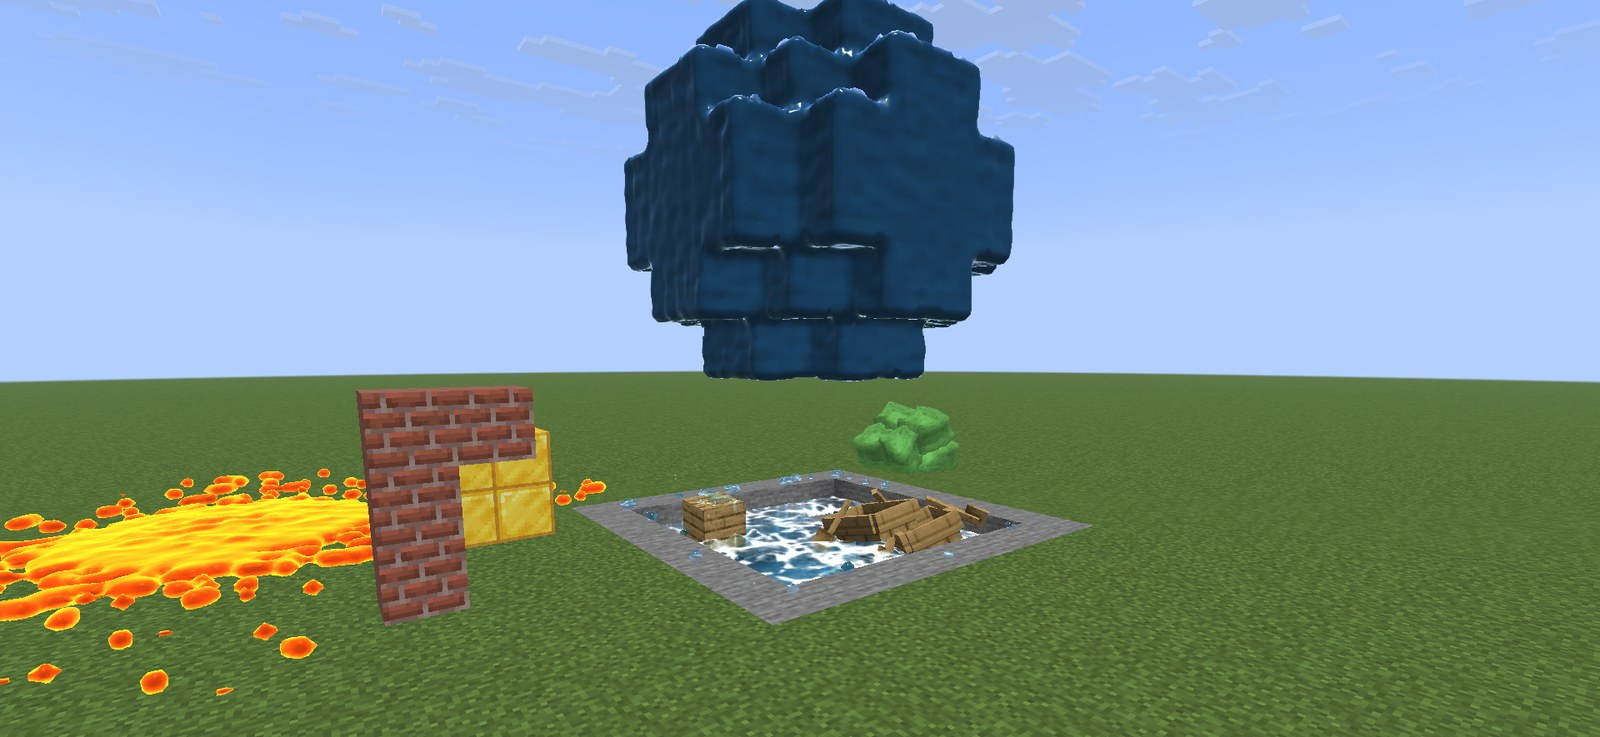
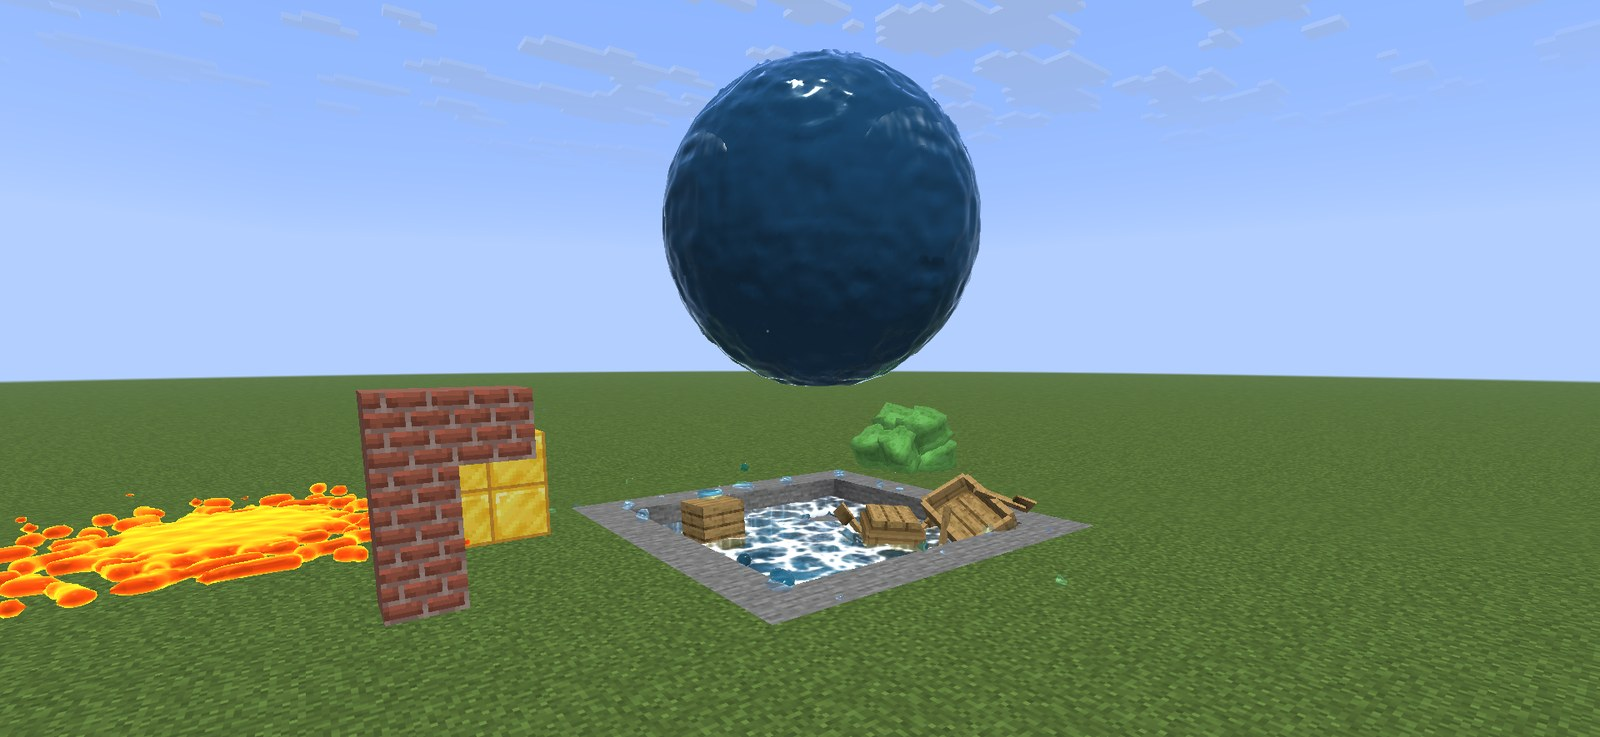
3.1.1: round water and lava balls
/inertia ball and /inertia lava spawned whole blocks of water, so the
ball looked like a pile of cubes. FluidSimulation.spawnBall adds the
lattice particles within the radius (skipping cells with collision),
queued by FluidManager.releaseBall for the next step like other spawns.
The commands screenshot shows the round ball.

diff --git a/src/client/java/io/github/isnowx17/inertia/client/fluid/FluidSimulation.java b/src/client/java/io/github/isnowx17/inertia/client/fluid/FluidSimulation.java
@@ -647,6 +647,103 @@ public final class FluidSimulation implements AutoCloseable {
 	}
 
 	/**
+	 * Adds a ball of water (or lava) at rest: the particles of the block lattice within {@code radius}
+	 * of {@code center}, so it is round from the start; none inside the ground.
+	 *
+	 * @return number of particles added (fewer near the limit or with ground in the ball)
+	 */
+	public int spawnBall(net.minecraft.world.level.Level level, Vec3 center, double radius, int maxParticles) {
+		awaitStep();
+		if ((activeCount == 0 && frozenEmpty() && rigids.isEmpty()) || !originSet) {
+			rebase(BlockPos.containing(center));
+		}
+		float spacing = params.spacing();
+		// The lattice of whole blocks (as spawnBlock), so particles start at the water's rest spacing.
+		int lo = (int) Math.floor((-radius) / spacing);
+		int hi = (int) Math.ceil(radius / spacing);
+		double r2 = radius * radius;
+		double cx = Math.floor(center.x / spacing) * spacing + spacing * 0.5;
+		double cy = Math.floor(center.y / spacing) * spacing + spacing * 0.5;
+		double cz = Math.floor(center.z / spacing) * spacing + spacing * 0.5;
+		java.util.List<float[]> points = new java.util.ArrayList<>();
+		BlockPos.MutableBlockPos cell = new BlockPos.MutableBlockPos();
+		openCells.clear();
+		for (int y = lo; y <= hi; y++) {
+			for (int z = lo; z <= hi; z++) {
+				for (int x = lo; x <= hi; x++) {
+					double dx = x * spacing, dy = y * spacing, dz = z * spacing;
+					if (dx * dx + dy * dy + dz * dz > r2) {
+						continue;
+					}
+					double wx = cx + dx, wy = cy + dy, wz = cz + dz;
+					cell.set(Mth.floor(wx), Mth.floor(wy), Mth.floor(wz));
+					long key = cell.asLong();
+					byte open = openCells.getOrDefault(key, (byte) -1);
+					if (open < 0) {
+						open = (byte) (level.getBlockState(cell).getCollisionShape(level, cell).isEmpty() ? 1 : 0);
+						openCells.put(key, open);
+					}
+					if (open == 1) {
+						points.add(new float[] {(float) (wx - originX), (float) (wy - originY), (float) (wz - originZ)});
+					}
+				}
+			}
+		}
+		int count = Math.min(Math.min(points.size(), maxParticles), ensureRoom(Math.min(points.size(), maxParticles)));
+		if (count <= 0) {
+			return 0;
+		}
+		wake();
+		float jitter = spacing * 0.05f;
+		float invMass = 1f / params.particleMass();
+		ThreadLocalRandom random = ThreadLocalRandom.current();
+		int start = activeCount;
+		float minX = Float.MAX_VALUE, minZ = Float.MAX_VALUE, maxX = -Float.MAX_VALUE, maxZ = -Float.MAX_VALUE;
+		for (int k = 0; k < count; k++) {
+			float[] pt = points.get(k);
+			int i = start + k;
+			float px = pt[0] + (random.nextFloat() - 0.5f) * jitter;
+			float py = pt[1] + (random.nextFloat() - 0.5f) * jitter;
+			float pz = pt[2] + (random.nextFloat() - 0.5f) * jitter;
+			hostPos.put(i * 4, px).put(i * 4 + 1, py).put(i * 4 + 2, pz).put(i * 4 + 3, invMass);
+			hostVel.put(i * 4, 0f).put(i * 4 + 1, 0f).put(i * 4 + 2, 0f).put(i * 4 + 3, 0f);
+			currPos[i * STRIDE] = px;
+			currPos[i * STRIDE + 1] = py;
+			currPos[i * STRIDE + 2] = pz;
+			prevPos[i * STRIDE] = px;
+			prevPos[i * STRIDE + 1] = py;
+			prevPos[i * STRIDE + 2] = pz;
+			velocity[i * STRIDE] = 0f;
+			velocity[i * STRIDE + 1] = 0f;
+			velocity[i * STRIDE + 2] = 0f;
+			minX = Math.min(minX, px);
+			minZ = Math.min(minZ, pz);
+			maxX = Math.max(maxX, px);
+			maxZ = Math.max(maxZ, pz);
+		}
+		uploadRange(start, count, true);
+		activeCount += count;
+		buffer.setNbActiveParticles(activeCount);
+		version++;
+		noteAdded(minX, minZ, maxX, maxZ);
+		// Collision geometry around the ball (and where it falls) must exist before the next step.
+		int reach = (int) Math.ceil(radius / 16.0) + 1;
+		int sx = Mth.floor(center.x) >> 4;
+		int sy = Mth.floor(center.y) >> 4;
+		int sz = Mth.floor(center.z) >> 4;
+		for (int dx = -reach; dx <= reach; dx++) {
+			for (int dy = -reach - 1; dy <= reach; dy++) {
+				for (int dz = -reach; dz <= reach; dz++) {
+					pendingUrgentSections.add(SectionPos.asLong(sx + dx, sy + dy, sz + dz));
+				}
+			}
+		}
+		return count;
+	}
+
+	private final it.unimi.dsi.fastutil.longs.Long2ByteOpenHashMap openCells = new it.unimi.dsi.fastutil.longs.Long2ByteOpenHashMap();
+
+	/**
 	 * The water as it is now, copied for saving with the world: the particles of the newest step and
 	 * the still water kept as a volume. Client thread; does not wait for a running step.
 	 *

diff --git a/src/client/java/io/github/isnowx17/inertia/client/fluid/FluidManager.java b/src/client/java/io/github/isnowx17/inertia/client/fluid/FluidManager.java
@@ -302,6 +302,20 @@ public final class FluidManager {
 			roomBank = Math.max(0, roomBank - used - spawned);
 		}
 		pendingSpawns.clear();
+		for (int i = 0; i + 3 < pendingBalls.size(); i += 4) {
+			Vec3 centre = new Vec3(pendingBalls.getDouble(i), pendingBalls.getDouble(i + 1), pendingBalls.getDouble(i + 2));
+			int added = simulation.spawnBall(current, centre, pendingBalls.getDouble(i + 3), full ? spawnBudget : Integer.MAX_VALUE);
+			if (full) {
+				spawnBudget = Math.max(0, spawnBudget - added);
+				spawned += added;
+				if (added == 0) {
+					tellGpuLimit(client.player);
+				}
+			} else if (added == 0) {
+				client.player.sendOverlayMessage(Component.translatable("message.inertia.limit_reached", simulation.limit()).withStyle(ChatFormatting.YELLOW));
+			}
+		}
+		pendingBalls.clear();
 		simulation.setSources(cells);
 		simulation.setTimeScale((float) steppedTickCount / RATE_WINDOW);
 		simulation.tick(current, client.player);
@@ -329,22 +343,21 @@ public final class FluidManager {
 		}
 	}
 
-	/** A block of water (or lava) at each of {@code centres}, at rest (a ball from a command): one sound for all. */
-	public int releaseBlocks(Player player, List<Vec3> centres) {
-		if (centres.isEmpty() || !ensureSimulation(player)) {
-			return 0;
+	/** Balls of water (or lava) to add with the next step: centre x, y, z and radius each. */
+	private final it.unimi.dsi.fastutil.doubles.DoubleArrayList pendingBalls = new it.unimi.dsi.fastutil.doubles.DoubleArrayList();
+
+	/** A round ball of water (or lava) at rest, {@code radius} blocks around {@code centre} (from a command). */
+	public boolean releaseBall(Player player, Vec3 centre, double radius) {
+		if (!ensureSimulation(player)) {
+			return false;
 		}
 		// Added with the next physics step, like water poured while the GPU is busy.
-		for (Vec3 c : centres) {
-			pendingSpawns.add(c.x);
-			pendingSpawns.add(c.y);
-			pendingSpawns.add(c.z);
-			pendingSpawns.add(0.0);
-			pendingSpawns.add(0.0);
-			pendingSpawns.add(0.0);
-		}
-		pouredSound(player, centres.get(centres.size() / 2), true);
-		return centres.size();
+		pendingBalls.add(centre.x);
+		pendingBalls.add(centre.y);
+		pendingBalls.add(centre.z);
+		pendingBalls.add(radius);
+		pouredSound(player, centre, true);
+		return true;
 	}
 
 	/** Handler for {@link io.github.isnowx17.inertia.item.FluidBucketItem}. */
@@ -839,6 +852,7 @@ public final class FluidManager {
 	public int clearLiquid() {
 		sources.clear();
 		pendingSpawns.clear();
+		pendingBalls.clear();
 		dormant.clear();
 		pendingWater = null;
 		pendingBox = null;

diff --git a/src/client/java/io/github/isnowx17/inertia/client/command/InertiaCommands.java b/src/client/java/io/github/isnowx17/inertia/client/command/InertiaCommands.java
@@ -126,37 +126,14 @@ public final class InertiaCommands {
 		return player.getEyePosition().add(player.getLookAngle().scale(size * 0.5 + 2.5));
 	}
 
-	/** A ball of water or lava {@code size} blocks across in front of the player, falling from there. */
+	/** A round ball of water or lava {@code size} blocks across in front of the player, falling from there. */
 	private static int ball(CommandContext<FabricClientCommandSource> ctx, FluidManager manager, int size, String message) {
 		Player player = ctx.getSource().getPlayer();
-		if (manager == null) {
+		if (manager == null || !manager.releaseBall(player, inFront(player, size), size * 0.5)) {
 			return 0;
 		}
-		Vec3 centre = inFront(player, size);
-		double radiusSq = size * size / 4.0 + 0.01;
-		double mid = (size - 1) / 2.0;
-		List<Vec3> blocks = new ArrayList<>();
-		for (int x = 0; x < size; x++) {
-			for (int y = 0; y < size; y++) {
-				for (int z = 0; z < size; z++) {
-					double ox = x - mid, oy = y - mid, oz = z - mid;
-					if (ox * ox + oy * oy + oz * oz > radiusSq) {
-						continue;
-					}
-					Vec3 at = centre.add(ox, oy, oz);
-					BlockPos pos = BlockPos.containing(at);
-					// Not inside the ground: that water would only be pushed out again.
-					if (player.level().getBlockState(pos).getCollisionShape(player.level(), pos).isEmpty()) {
-						blocks.add(at);
-					}
-				}
-			}
-		}
-		int added = manager.releaseBlocks(player, blocks);
-		if (added > 0) {
-			ctx.getSource().sendFeedback(Component.translatable(message, added));
-		}
-		return added;
+		ctx.getSource().sendFeedback(Component.translatable(message, size));
+		return size;
 	}
 
 	/** A cube of slime blocks {@code size} blocks across in front of the player, in the open cells. */

diff --git a/CHANGELOG.md b/CHANGELOG.md
@@ -3,6 +3,13 @@
 All notable changes to Inertia are documented here. Versioning rules are described in
 [PLAN.md](PLAN.md#5-sürümleme).
 
+## [3.1.1]
+
+### Fixed
+- **`/inertia ball` and `/inertia lava` look round from the start.** The ball was made of whole
+  blocks of water, so it looked like a pile of cubes until it fell apart; it is now the particles of
+  a real sphere (none inside the ground).
+
 ## [3.1.0] — Commands Update
 
 ### Added
